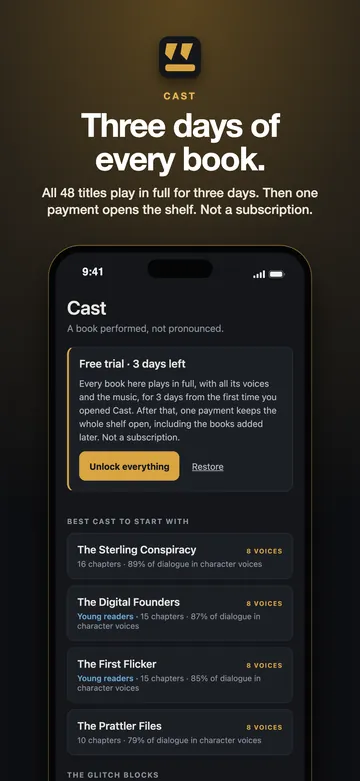
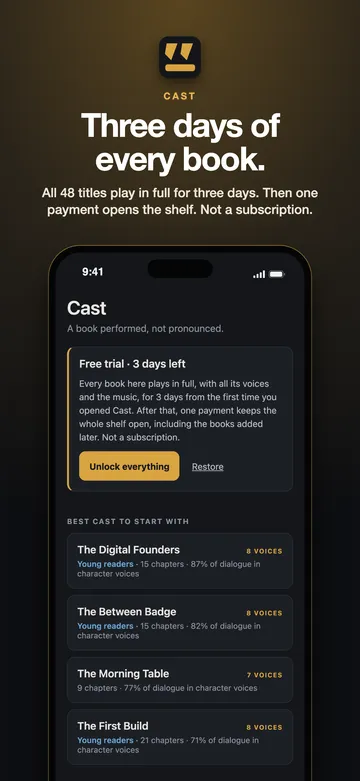
Cast round 4: landing page regenerated from apps_data.py (headline The characters, in their own voices; 14 fully cast, 20 partly), store shot 2 retaken on the new best cast row (ranked by the free opening), audio page refreshed from the round 4 compile. CI steps converge. Not pushed.
Claude-Session: 3686485a-7325-4383-b6d2-31ce4053344a

Changed region(s): [[0.2139, 0.6761, 0.7944, 0.8912], [0.1833, 0.9219, 0.7333, 1.0]]

diff --git a/audio/index.html b/audio/index.html
@@ -163,7 +163,7 @@ table.au-tbl td.t{width:52%}
 <tr><td class="t">The Drosos Ledger</td><td class="n">8</td><td class="n drop">2,280</td><td class="n drop">5%</td><td class="n drop">8</td><td class="m"><span class="au-mode narrator">Single voice</span></td></tr>
 <tr><td class="t">The Hudson Creek Record</td><td class="n">6</td><td class="n drop">755</td><td class="n drop">4%</td><td class="n drop">11</td><td class="m"><span class="au-mode narrator">Single voice</span></td></tr>
 <tr><td class="t">The Sfax Letters</td><td class="n">0</td><td class="n drop">0</td><td class="n drop">0%</td><td class="n drop">10</td><td class="m"><span class="au-mode narrator">Single voice</span></td></tr>
-<tr><td class="t">The Pencil Under the Bench</td><td class="n">0</td><td class="n drop">1</td><td class="n drop">0%</td><td class="n drop">9</td><td class="m"><span class="au-mode narrator">Single voice</span></td></tr>
+<tr><td class="t">The Pencil Under the Bench</td><td class="n">0</td><td class="n drop">0</td><td class="n drop">0%</td><td class="n drop">9</td><td class="m"><span class="au-mode narrator">Single voice</span></td></tr>
 <tr><td class="t">The Roebuck Bay Record</td><td class="n">0</td><td class="n drop">0</td><td class="n drop">0%</td><td class="n drop">25</td><td class="m"><span class="au-mode narrator">Single voice</span></td></tr>
 </tbody></table>
 <div class="au-series"><span class="count">6 books</span><h2>The Gadget Sandbox Chronicles</h2><p>The first six Cubemelon books. Five of the six are cast and one, Portal Park, is read in one voice; the voiced share is lower here than in the next six because more of these lines go untagged. Written for readers who would rather be handed a controller than a chapter, and performed so it can go on in the car with a grown-up listening too.</p></div>
@@ -190,24 +190,24 @@ table.au-tbl td.t{width:52%}
 <tr><td class="t">The Last Adviser</td><td class="n">8</td><td class="n drop">2,758</td><td class="n drop">49%</td><td class="n drop">5</td><td class="m"><span class="au-mode cast">Full cast</span></td></tr>
 <tr><td class="t">Concrete Mirrors</td><td class="n">4</td><td class="n drop">348</td><td class="n drop">53%</td><td class="n drop">2</td><td class="m"><span class="au-mode cast">Full cast</span></td></tr>
 <tr><td class="t">Stealing First Base</td><td class="n">8</td><td class="n drop">569</td><td class="n drop">35%</td><td class="n drop">5</td><td class="m"><span class="au-mode cast">Full cast</span></td></tr>
-<tr><td class="t">The Sterling Conspiracy</td><td class="n">8</td><td class="n drop">1,171</td><td class="n drop">89%</td><td class="n drop">4</td><td class="m"><span class="au-mode cast">Full cast</span></td></tr>
-<tr><td class="t">The Starlight Secret Society</td><td class="n">8</td><td class="n drop">3,736</td><td class="n drop">45%</td><td class="n drop">10</td><td class="m"><span class="au-mode cast">Full cast</span></td></tr>
+<tr><td class="t">The Sterling Conspiracy</td><td class="n">8</td><td class="n drop">1,166</td><td class="n drop">89%</td><td class="n drop">3</td><td class="m"><span class="au-mode cast">Full cast</span></td></tr>
+<tr><td class="t">The Starlight Secret Society</td><td class="n">8</td><td class="n drop">3,734</td><td class="n drop">45%</td><td class="n drop">10</td><td class="m"><span class="au-mode cast">Full cast</span></td></tr>
 <tr><td class="t">The Fortune Weaver</td><td class="n">0</td><td class="n drop">0</td><td class="n drop">0%</td><td class="n drop">2</td><td class="m"><span class="au-mode narrator">Single voice</span></td></tr>
-<tr><td class="t">Who Wants To Be Greek? English Narrative Edition</td><td class="n">8</td><td class="n drop">1,045</td><td class="n drop">36%</td><td class="n drop">3</td><td class="m"><span class="au-mode cast">Full cast</span></td></tr>
+<tr><td class="t">Who Wants To Be Greek? English Narrative Edition</td><td class="n">8</td><td class="n drop">1,044</td><td class="n drop">35%</td><td class="n drop">3</td><td class="m"><span class="au-mode cast">Full cast</span></td></tr>
 </tbody></table>
 <div class="au-series"><span class="count">12 books</span><h2>Money Skills and Making Things</h2></div>
 <table class="au-tbl"><thead><tr><th class="t">Title</th><th class="n">Voices</th><th class="n drop">Spoken lines</th><th class="n drop">Attributed</th><th class="n drop">Music cues</th><th class="m">Mode</th></tr></thead><tbody>
-<tr><td class="t">The Billionaire&#x27;s Legacy Game</td><td class="n">8</td><td class="n drop">1,573</td><td class="n drop">40%</td><td class="n drop">4</td><td class="m"><span class="au-mode cast">Full cast</span></td></tr>
-<tr><td class="t">The Digital Founders</td><td class="n">8</td><td class="n drop">1,990</td><td class="n drop">87%</td><td class="n drop">4</td><td class="m"><span class="au-mode cast">Full cast</span></td></tr>
-<tr><td class="t">The Startup Club</td><td class="n">8</td><td class="n drop">1,540</td><td class="n drop">81%</td><td class="n drop">3</td><td class="m"><span class="au-mode cast">Full cast</span></td></tr>
-<tr><td class="t">The Growing Fortune</td><td class="n">7</td><td class="n drop">1,181</td><td class="n drop">83%</td><td class="n drop">4</td><td class="m"><span class="au-mode cast">Full cast</span></td></tr>
+<tr><td class="t">The Billionaire&#x27;s Legacy Game</td><td class="n">8</td><td class="n drop">1,550</td><td class="n drop">41%</td><td class="n drop">4</td><td class="m"><span class="au-mode cast">Full cast</span></td></tr>
+<tr><td class="t">The Digital Founders</td><td class="n">8</td><td class="n drop">1,974</td><td class="n drop">87%</td><td class="n drop">4</td><td class="m"><span class="au-mode cast">Full cast</span></td></tr>
+<tr><td class="t">The Startup Club</td><td class="n">8</td><td class="n drop">1,540</td><td class="n drop">82%</td><td class="n drop">3</td><td class="m"><span class="au-mode cast">Full cast</span></td></tr>
+<tr><td class="t">The Growing Fortune</td><td class="n">7</td><td class="n drop">1,169</td><td class="n drop">84%</td><td class="n drop">4</td><td class="m"><span class="au-mode cast">Full cast</span></td></tr>
 <tr><td class="t">Digital Gold Rush</td><td class="n">5</td><td class="n drop">617</td><td class="n drop">68%</td><td class="n drop">3</td><td class="m"><span class="au-mode cast">Full cast</span></td></tr>
-<tr><td class="t">Side Hustle Junior</td><td class="n">1</td><td class="n drop">73</td><td class="n drop">3%</td><td class="n drop">4</td><td class="m"><span class="au-mode narrator">Single voice</span></td></tr>
+<tr><td class="t">Side Hustle Junior</td><td class="n">1</td><td class="n drop">70</td><td class="n drop">3%</td><td class="n drop">4</td><td class="m"><span class="au-mode narrator">Single voice</span></td></tr>
 <tr><td class="t">Seeded for Success</td><td class="n">0</td><td class="n drop">2</td><td class="n drop">0%</td><td class="n drop">0</td><td class="m"><span class="au-mode narrator">Single voice</span></td></tr>
-<tr><td class="t">Passive Income Blueprint</td><td class="n">2</td><td class="n drop">45</td><td class="n drop">49%</td><td class="n drop">2</td><td class="m"><span class="au-mode narrator">Single voice</span></td></tr>
-<tr><td class="t">Safe Online Projects for Kids</td><td class="n">0</td><td class="n drop">44</td><td class="n drop">0%</td><td class="n drop">1</td><td class="m"><span class="au-mode narrator">Single voice</span></td></tr>
+<tr><td class="t">Passive Income Blueprint</td><td class="n">2</td><td class="n drop">43</td><td class="n drop">51%</td><td class="n drop">2</td><td class="m"><span class="au-mode narrator">Single voice</span></td></tr>
+<tr><td class="t">Safe Online Projects for Kids</td><td class="n">0</td><td class="n drop">41</td><td class="n drop">0%</td><td class="n drop">1</td><td class="m"><span class="au-mode narrator">Single voice</span></td></tr>
 <tr><td class="t">The Passive Income Dividend System</td><td class="n">0</td><td class="n drop">7</td><td class="n drop">0%</td><td class="n drop">3</td><td class="m"><span class="au-mode narrator">Single voice</span></td></tr>
-<tr><td class="t">Automation Income Systems</td><td class="n">1</td><td class="n drop">88</td><td class="n drop">2%</td><td class="n drop">3</td><td class="m"><span class="au-mode narrator">Single voice</span></td></tr>
+<tr><td class="t">Automation Income Systems</td><td class="n">1</td><td class="n drop">79</td><td class="n drop">3%</td><td class="n drop">3</td><td class="m"><span class="au-mode narrator">Single voice</span></td></tr>
 <tr><td class="t">AI Income Streams</td><td class="n">0</td><td class="n drop">7</td><td class="n drop">0%</td><td class="n drop">2</td><td class="m"><span class="au-mode narrator">Single voice</span></td></tr>
 </tbody></table>
 <p class="au-foot">Cast is not on a store yet and its player carries one of these books so far, so nothing here can be bought today and there is no button that pretends otherwise. <a href="/apps/">Apps</a> carries its status alongside the rest of the tools. These are synthesised performances rendered on your own device, not human narration, and the page says which books are genuinely cast and which are one voice so that is not a surprise. Questions to <a href="mailto:support@carrierpress.com">support@carrierpress.com</a>.</p>

diff --git a/apps/cast/index.html b/apps/cast/index.html
@@ -106,7 +106,7 @@
 
 <section class="lp-hero" style="--accent:#6E5316"><div class="wrap lp-hero-in"><div>
 <div class="lp-id"><img class="lp-icon" src="/apps/icons/cast.webp" alt="" width="72" height="72"><div><span class="lp-name">Cast</span><span class="lp-status">Coming soon</span></div></div>
-<h1>A voice for every character.</h1>
+<h1>The characters, in their own voices.</h1>
 <p class="lp-blurb">A book performed with a voice per character and a score under the action. The reading is analysed once per title, offline; the performance happens on your device.</p>
 <div class="lp-cta"><a class="lp-btn hero" href="mailto:support@carrierpress.com?subject=Cast">Tell me when it is out<small>One email, nothing else</small></a></div>
 <p class="lp-price">$19.99 once<span>One payment. Never a subscription.</span></p>
@@ -118,7 +118,7 @@
 <a href="/apps/shots/cast/store-2.webp"><img src="/apps/shots/cast/store-2.webp" alt="Cast, screen 2 of 3" width="240" height="520" loading="lazy" decoding="async"></a>
 <a href="/apps/shots/cast/store-3.webp"><img src="/apps/shots/cast/store-3.webp" alt="Cast, screen 3 of 3" width="240" height="520" loading="lazy" decoding="async"></a>
 </div>
-<div class="lp-split"><div class="lp-box"><h2>Try it</h2><p>Three days of everything, then the price above.</p></div><div class="lp-box"><h2>What the purchase buys</h2><p>All 48 books are in the app: 34 with character voices (13 fully cast, 21 partly, where the narrator reads any line the text does not give a speaker) and 14 in a single voice, and the shelf shows which is which. One payment opens every book. It creates no audiobook edition, which is what keeps the free Audible route open on every title.</p></div></div>
+<div class="lp-split"><div class="lp-box"><h2>Try it</h2><p>Three days of everything, then the price above.</p></div><div class="lp-box"><h2>What the purchase buys</h2><p>All 48 books are in the app: 34 with character voices (14 fully cast, 20 partly, where the narrator reads any line the text does not give a speaker) and 14 in a single voice, and the shelf shows which is which. One payment opens every book. It creates no audiobook edition, which is what keeps the free Audible route open on every title.</p></div></div>
 <div class="lp-tip"><p><strong>Support the build.</strong> These apps are made by one independent developer, with no advertising and no investors. If you want to see this one finished, a tip helps pay for the time.</p><p><a class="lp-btn" href="https://jeffreycarrier.gumroad.com/coffee" target="_blank" rel="noopener">Leave a tip<small>Pay what you want, from $3</small></a></p><p class="fine">A tip buys nothing and unlocks nothing. It is a payment to Jeffrey L. Carrier, not a donation to a charity, and it is not tax-deductible.</p></div>
 <div class="lp-foot"><a href="/apps/">All apps and prices</a><a href="/cast/">Support</a><a href="/cast/privacy/">Privacy</a></div>
 </section>
